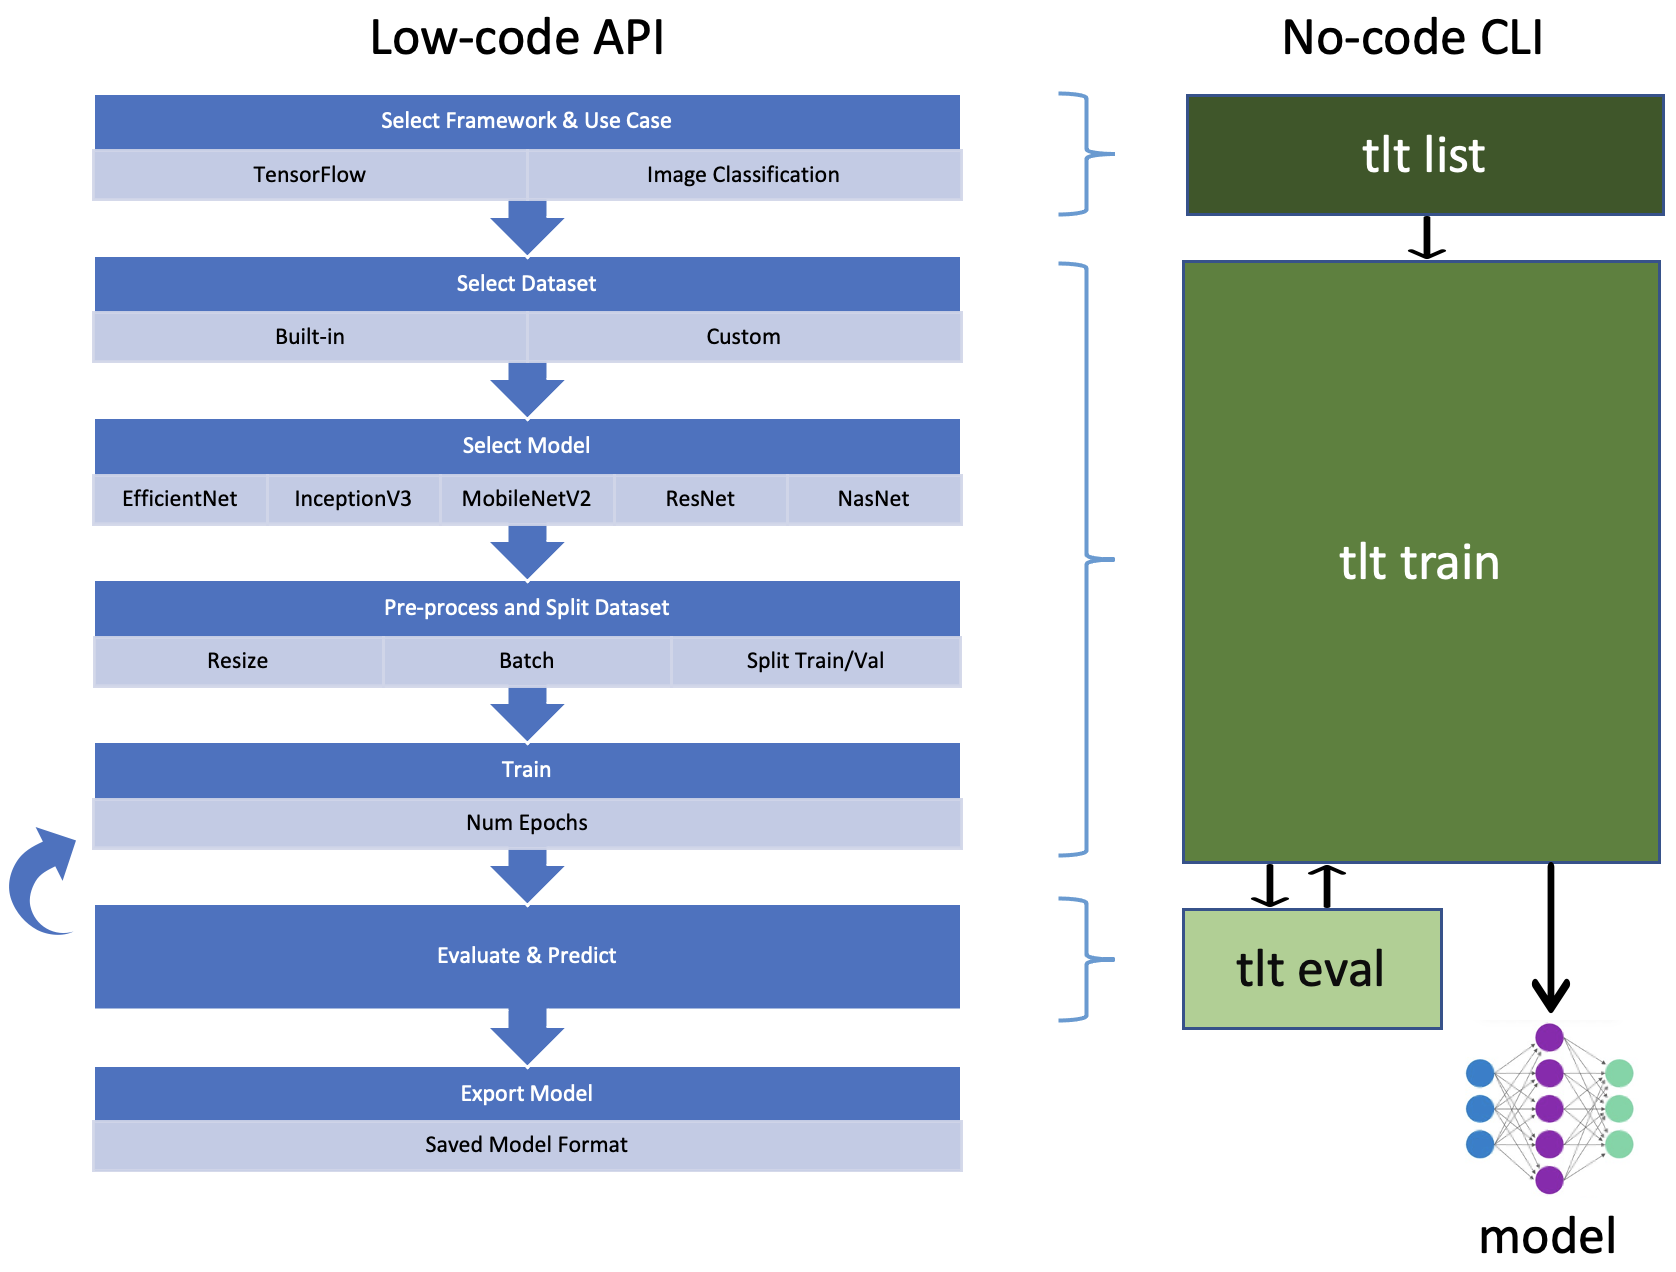
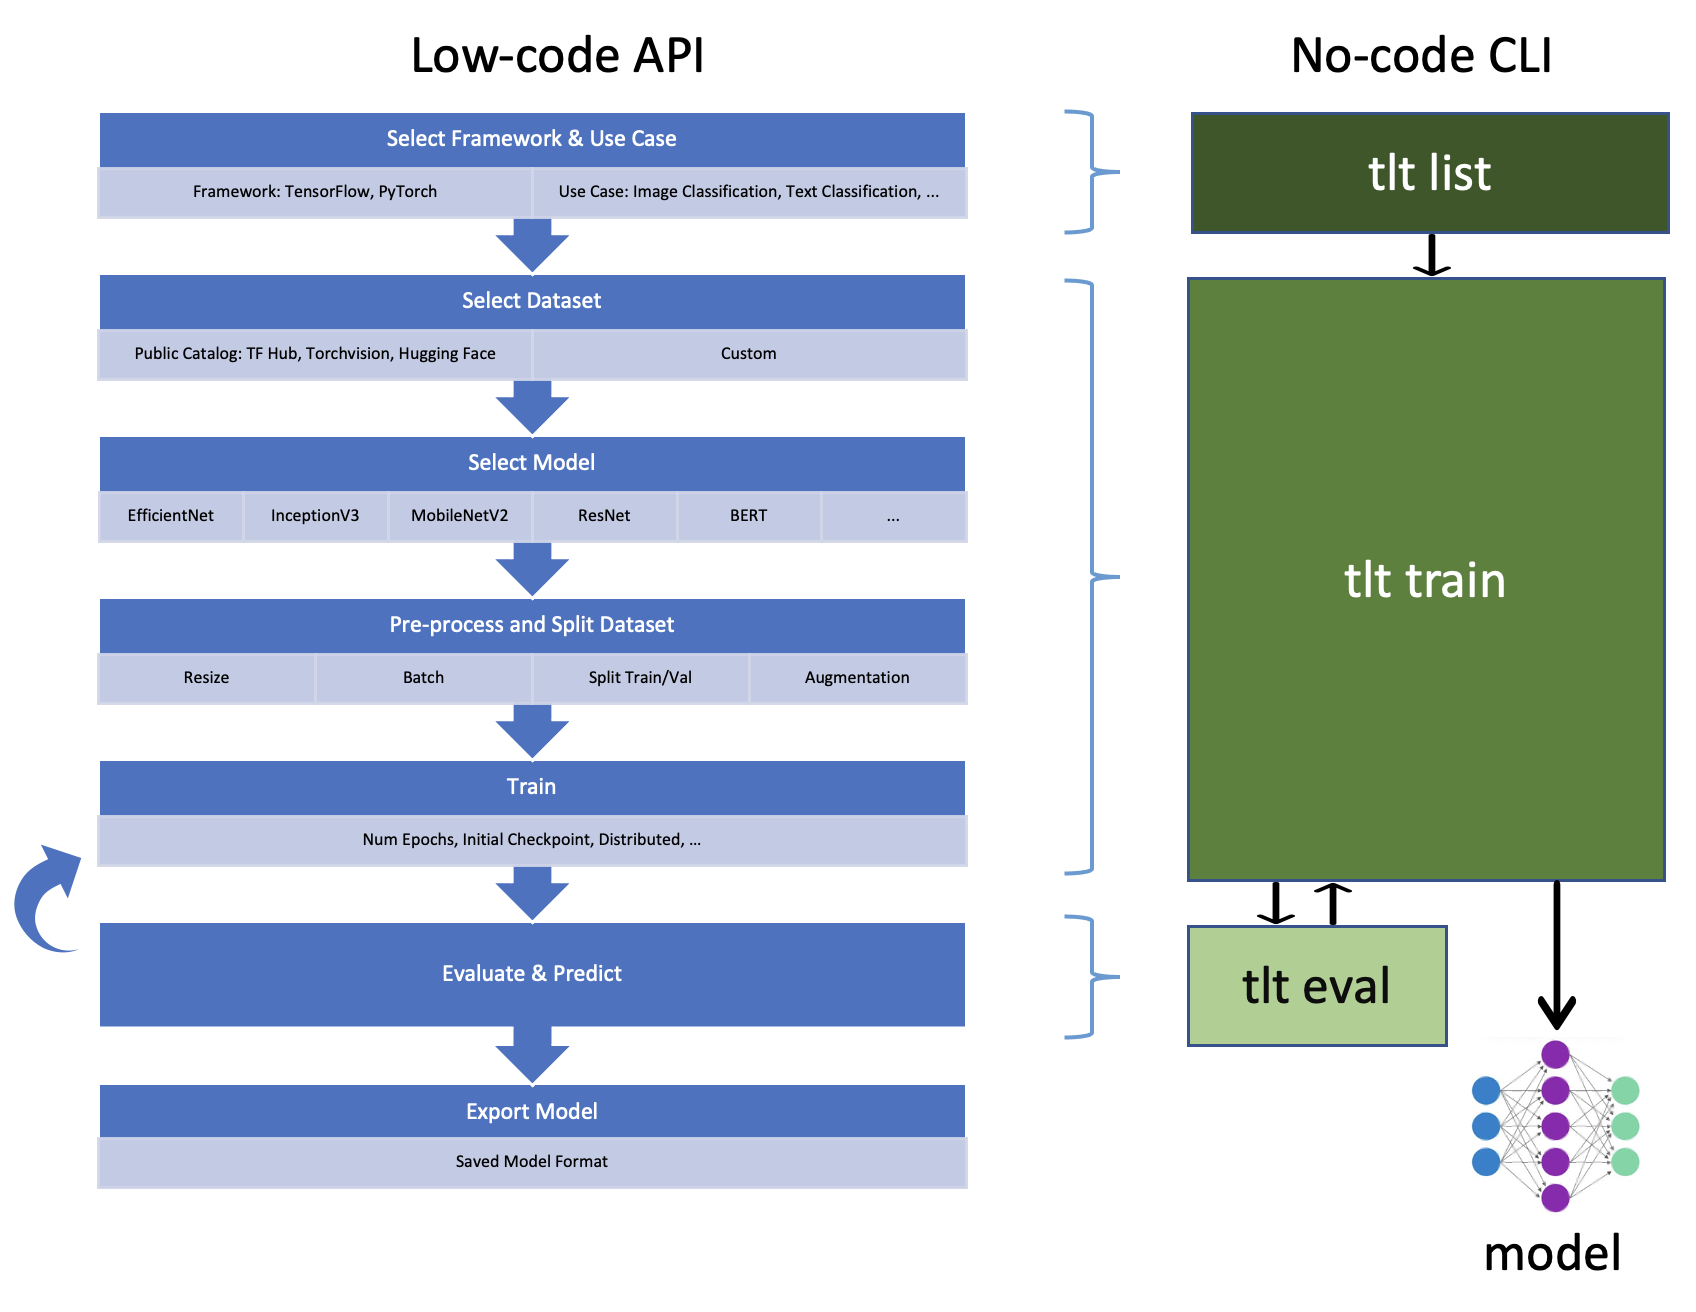
DevCatalog.md (#224)
* Adds initial DevCatalog.md document

* Updates to readme

* Updated doc per review suggestions

* More requested edits

* Updated image and branding

* Updated references with full name

* Fixed verbiage and example code

* Another name fix

---------

diff --git a/docs/DEVCATALOG.md b/docs/DEVCATALOG.md
@@ -1,0 +1,238 @@
+# Intel® Transfer Learning Tool
+
+Transfer learning workflows use the knowledge learned by a pre-trained model on a large dataset to improve the
+performance of a related problem with a smaller dataset. Intel® Transfer Learning Tool makes transfer learning
+workflows easier and faster across a variety of AI use cases. This open-source Python* library leverages public
+pretrained model hubs, Intel-optimized deep learning frameworks, and your custom dataset to efficiently generate new
+models optimized for Intel hardware.
+ 
+This document provides information, links, and instructions for the Intel Transfer Learning Tool as well as Jupyter*
+notebooks and examples that demonstrate its usage.
+
+## Overview
+
+The Intel Transfer Learning Tool offers both a low-code API and a no-code CLI for training AI models with TensorFlow*
+and PyTorch*.
+
+Features:
+* PyTorch and TensorFlow support
+* Over 100 image classification and text classification models from Torchvision, TensorFlow datasets, and Hugging Face
+* Automatically create a trainable classification layer customized for your dataset
+* Bring your own dataset or get started quickly with built-in datasets
+* Dataset scaling, cropping, batching, and splitting
+* APIs for prediction, evaluation, and benchmarking
+* Export model for deployment or resume training from checkpoints
+
+Intel Optimizations:
+* Boost performance with Intel® Optimization for TensorFlow and Intel® Extension for PyTorch
+* Quantize to INT8 to reduce model size and speed up inference using Intel® Neural Compressor
+* Optimize model for FP32 inference using Intel Neural Compressor
+* Reduce training time with auto-mixed precision for select hardware platforms
+* Further reduce training time with multinode training for PyTorch
+
+For more details, visit the [Intel Transfer Learning Tool](https://github.com/IntelAI/transfer-learning-tool) 
+GitHub repository.
+
+## Hardware Requirements
+
+| Recommended Hardware         | Precision  |
+| ---------------------------- | ---------- |
+| Intel® 4th Gen Xeon® Scalable Performance processors | BF16 |
+| Intel® 1st, 2nd, 3rd, and 4th Gen Xeon® Scalable Performance processors | FP32 |
+
+## How it Works
+Run simple CLI commands at a bash prompt or make API calls in a Python* script to: 
+
+1. Download public pretrained models, replace the classification layer, and train them using your own dataset
+2. Minimize training time with Intel-optimized frameworks and low-precision features from Intel Neural Compressor 
+3. Export a saved model optimized for inference on Intel CPUs
+
+![alt text](images/features.png "TLT CLI and API")
+
+## Get Started
+
+### Requirements
+* Linux* system (verified on Ubuntu* 20.04), CPU-only
+* Python3* (3.8, 3.9, or 3.10), Pip/Conda and Virtualenv
+* Install required packages with `apt-get install build-essential python3-dev libgl1 libglib2.0-0`
+
+### Install
+
+```
+pip install intel-transfer-learning-tool
+```
+
+### Use the CLI
+Use `tlt --help` to see the list of CLI commands. More detailed information on each
+command can be found using `tlt <command> --help` (like `tlt train --help`).
+
+List the available models:
+```
+$ tlt list models --use-case image_classification
+------------------------------
+IMAGE CLASSIFICATION
+------------------------------
+alexnet (pytorch)
+convnext_base (pytorch)
+convnext_large (pytorch)
+convnext_small (pytorch)
+convnext_tiny (pytorch)
+densenet121 (pytorch)
+densenet161 (pytorch)
+densenet169 (pytorch)
+densenet201 (pytorch)
+efficientnet_b0 (pytorch)
+efficientnet_b0 (tensorflow)
+efficientnet_b1 (pytorch)
+efficientnet_b1 (tensorflow)
+efficientnet_b2 (pytorch)
+efficientnet_b2 (tensorflow)
+efficientnet_b3 (pytorch)
+efficientnet_b3 (tensorflow)
+efficientnet_b4 (pytorch)
+efficientnet_b4 (tensorflow)
+efficientnet_b5 (pytorch)
+efficientnet_b5 (tensorflow)
+efficientnet_b6 (pytorch)
+efficientnet_b6 (tensorflow)
+efficientnet_b7 (pytorch)
+efficientnet_b7 (tensorflow)
+efficientnetv2-b0 (tensorflow)
+efficientnetv2-b1 (tensorflow)
+efficientnetv2-b2 (tensorflow)
+efficientnetv2-b3 (tensorflow)
+efficientnetv2-s (tensorflow)
+googlenet (pytorch)
+inception_v3 (tensorflow)
+mnasnet0_5 (pytorch)
+mnasnet1_0 (pytorch)
+mobilenet_v2 (pytorch)
+mobilenet_v2_100_224 (tensorflow)
+mobilenet_v3_large (pytorch)
+mobilenet_v3_small (pytorch)
+nasnet_large (tensorflow)
+regnet_x_16gf (pytorch)
+regnet_x_1_6gf (pytorch)
+regnet_x_32gf (pytorch)
+regnet_x_3_2gf (pytorch)
+regnet_x_400mf (pytorch)
+regnet_x_800mf (pytorch)
+regnet_x_8gf (pytorch)
+regnet_y_16gf (pytorch)
+regnet_y_1_6gf (pytorch)
+regnet_y_32gf (pytorch)
+regnet_y_3_2gf (pytorch)
+regnet_y_400mf (pytorch)
+regnet_y_800mf (pytorch)
+regnet_y_8gf (pytorch)
+resnet101 (pytorch)
+resnet152 (pytorch)
+resnet18 (pytorch)
+resnet34 (pytorch)
+resnet50 (pytorch)
+resnet_v1_50 (tensorflow)
+resnet_v2_101 (tensorflow)
+resnet_v2_50 (tensorflow)
+resnext101_32x8d (pytorch)
+resnext50_32x4d (pytorch)
+shufflenet_v2_x0_5 (pytorch)
+shufflenet_v2_x1_0 (pytorch)
+vgg11 (pytorch)
+vgg11_bn (pytorch)
+vgg13 (pytorch)
+vgg13_bn (pytorch)
+vgg16 (pytorch)
+vgg16_bn (pytorch)
+vgg19 (pytorch)
+vgg19_bn (pytorch)
+vit_b_16 (pytorch)
+vit_b_32 (pytorch)
+vit_l_16 (pytorch)
+vit_l_32 (pytorch)
+wide_resnet101_2 (pytorch)
+wide_resnet50_2 (pytorch)
+```
+
+Train a model:
+```
+$ tlt train -f tensorflow --model-name resnet_v1_50 --dataset-dir /tmp/dataset/flower_photos --output-dir /tmp/output
+Model name: resnet_v1_50
+Framework: tensorflow
+Training epochs: 1
+Dataset dir: /tmp/dataset/flower_photos
+Output directory: /tmp/output
+Found 3670 files belonging to 5 classes.
+...
+```
+
+### Use the API
+This example runs the same workload as above using the API instead of the CLI. Additionally, the model is benchmarked and
+quantized to int8 precision for improved inference performance.
+
+```python
+from tlt.datasets import dataset_factory
+from tlt.models import model_factory
+
+# Get the model
+model = model_factory.get_model(model_name="resnet_v1_50", framework="tensorflow")
+
+# Load and preprocess a dataset
+dataset = dataset_factory.load_dataset(dataset_dir="/tmp/data/flower_photos",
+                                       use_case="image_classification", \
+                                       framework="tensorflow")
+dataset.shuffle_split(train_pct=.75, val_pct=.25)
+dataset.preprocess(image_size=model.image_size, batch_size=32)
+
+# Train the model using the dataset
+model.train(dataset, output_dir="/tmp/output", epochs=1)
+
+# Export the model
+saved_model_dir = model.export(output_dir="/tmp/output")
+
+# Create an Intel Neural Compressor config file
+inc_config_file = "/tmp/output/inc_config.yaml"
+model.write_inc_config_file(inc_config_file, dataset=dataset, batch_size=512, overwrite=True,
+                            accuracy_criterion_relative=0.01, exit_policy_timeout=0,
+                            exit_policy_max_trials=10, tuning_workspace="/tmp/output/nc_workspace")
+
+# Quantize the trained model
+quantization_output = "/tmp/output/quantized_model"
+model.quantize(saved_model_dir, quantization_output, inc_config_file)
+
+# Benchmark the quantized model
+model.benchmark(quantization_output, inc_config_file, 'performance')
+```
+
+For more details, visit the [Intel Transfer Learning Tool](https://github.com/IntelAI/transfer-learning-tool) 
+GitHub repository.
+
+## Summary and Next Steps
+
+You have just learned how Intel Transfer Learning Tool can be used to quickly develop an AI model and export
+an Intel-optimized saved model for deployment. With the sample CLI and API commands above, you have executed simple
+end-to-end transfer learning workflows. For more details, check out the tutorial Jupyter*
+notebooks, and for real-world examples check out the reference workflows.
+
+### Tutorial Jupyter* Notebooks
+
+| Notebook | Use Case | Framework| Description |
+| ---------| ---------|----------|-------------|
+| [Text Classification with TensorFlow using the Intel® Transfer Learning Tool](https://github.com/IntelAI/transfer-learning-tool/tree/main/notebooks/text_classification/tlt_api_tf_text_classification) | Text Classification | TensorFlow and the Intel Transfer Learning Tool API | Demonstrates how to use the Intel Transfer Learning Tool API to fine tune a BERT model from TF Hub using binary text classification datasets. |
+| [Text Classification with Pytorch using the Intel® Transfer Learning Tool](https://github.com/IntelAI/transfer-learning-tool/tree/main/notebooks/text_classification/tlt_api_pyt_text_classification) | Text Classification | PyTorch and the Intel Transfer Learning Tool API | Demonstrates how to use the Intel Transfer Learning Tool API to fine tune a BERT model from Huggingface using binary text classification datasets. |
+| [Image Classification with TensorFlow using Intel® Transfer Learning Tool](https://github.com/IntelAI/transfer-learning-tool/tree/main/notebooks/image_classification/tlt_api_tf_image_classification) | Image Classification | TensorFlow and the Intel Transfer Learning Tool API | Demonstrates how to use the Intel Transfer Learning Tool API to do transfer learning for image classification using a TensorFlow model. |
+| [Image Classification with PyTorch using Intel® Transfer Learning Tool](https://github.com/IntelAI/transfer-learning-tool/tree/main/notebooks/image_classification/tlt_api_pyt_image_classification) | Image Classification | PyTorch and the Intel Transfer Learning Tool API | Demonstrates how to use the Intel Transfer Learning Tool API to do transfer learning for image classification using a PyTorch model. |
+
+### Examples
+
+Check out these Reference Kits and Workflows that use Intel Transfer Learning Tool:
+
+* [Breast Cancer Detection]()
+* [Anomaly Detection]()
+
+## Support
+
+The Intel Transfer Learning Tool team tracks bugs and enhancement requests using 
+[GitHub issues](https://github.com/IntelAI/transfer-learning-tool/issues). Before submitting a
+suggestion or bug report, search the existing GitHub issues to see if your issue has already been reported.
+
+*Other names and brands may be claimed as the property of others. [Trademarks](http://www.intel.com/content/www/us/en/legal/trademarks.html)

diff --git a/docs/index.rst b/docs/index.rst
@@ -22,8 +22,8 @@ Features
 
 .. figure:: images/features.png
    :scale: 42% %
-   :height: 1272px
-   :width: 1676px
+   :height: 1312px
+   :width: 1696px
    :align: center
    :alt: TLT Features
 
